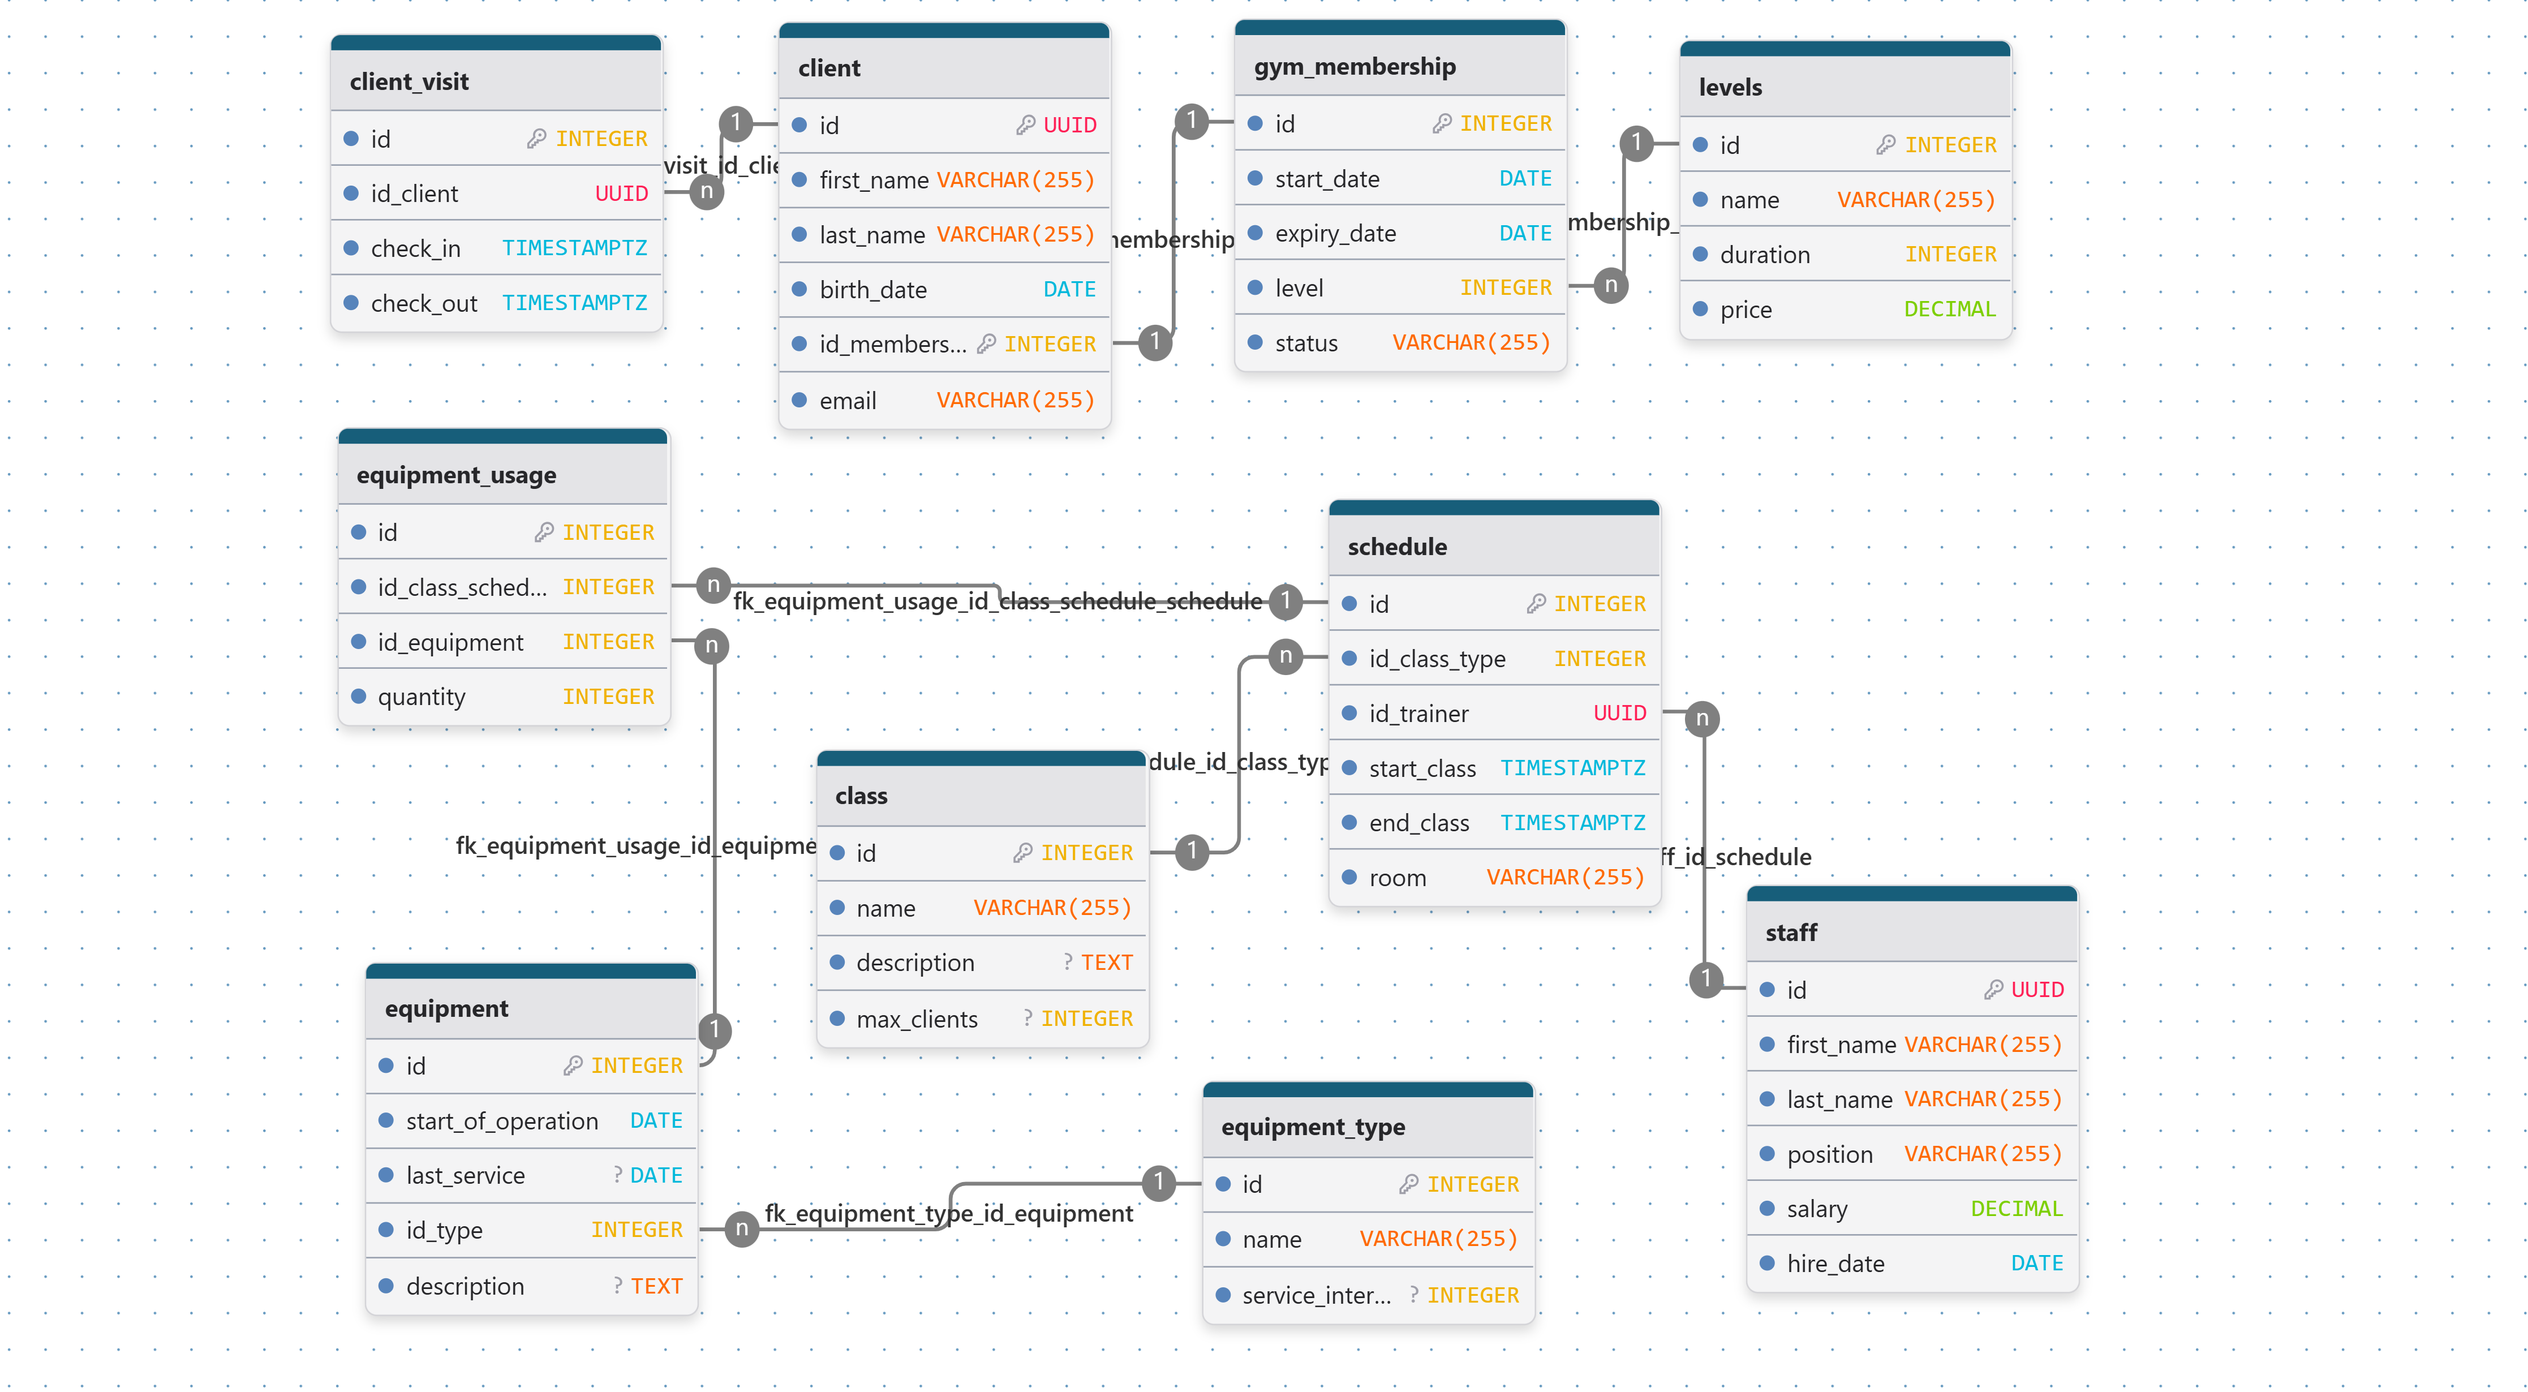
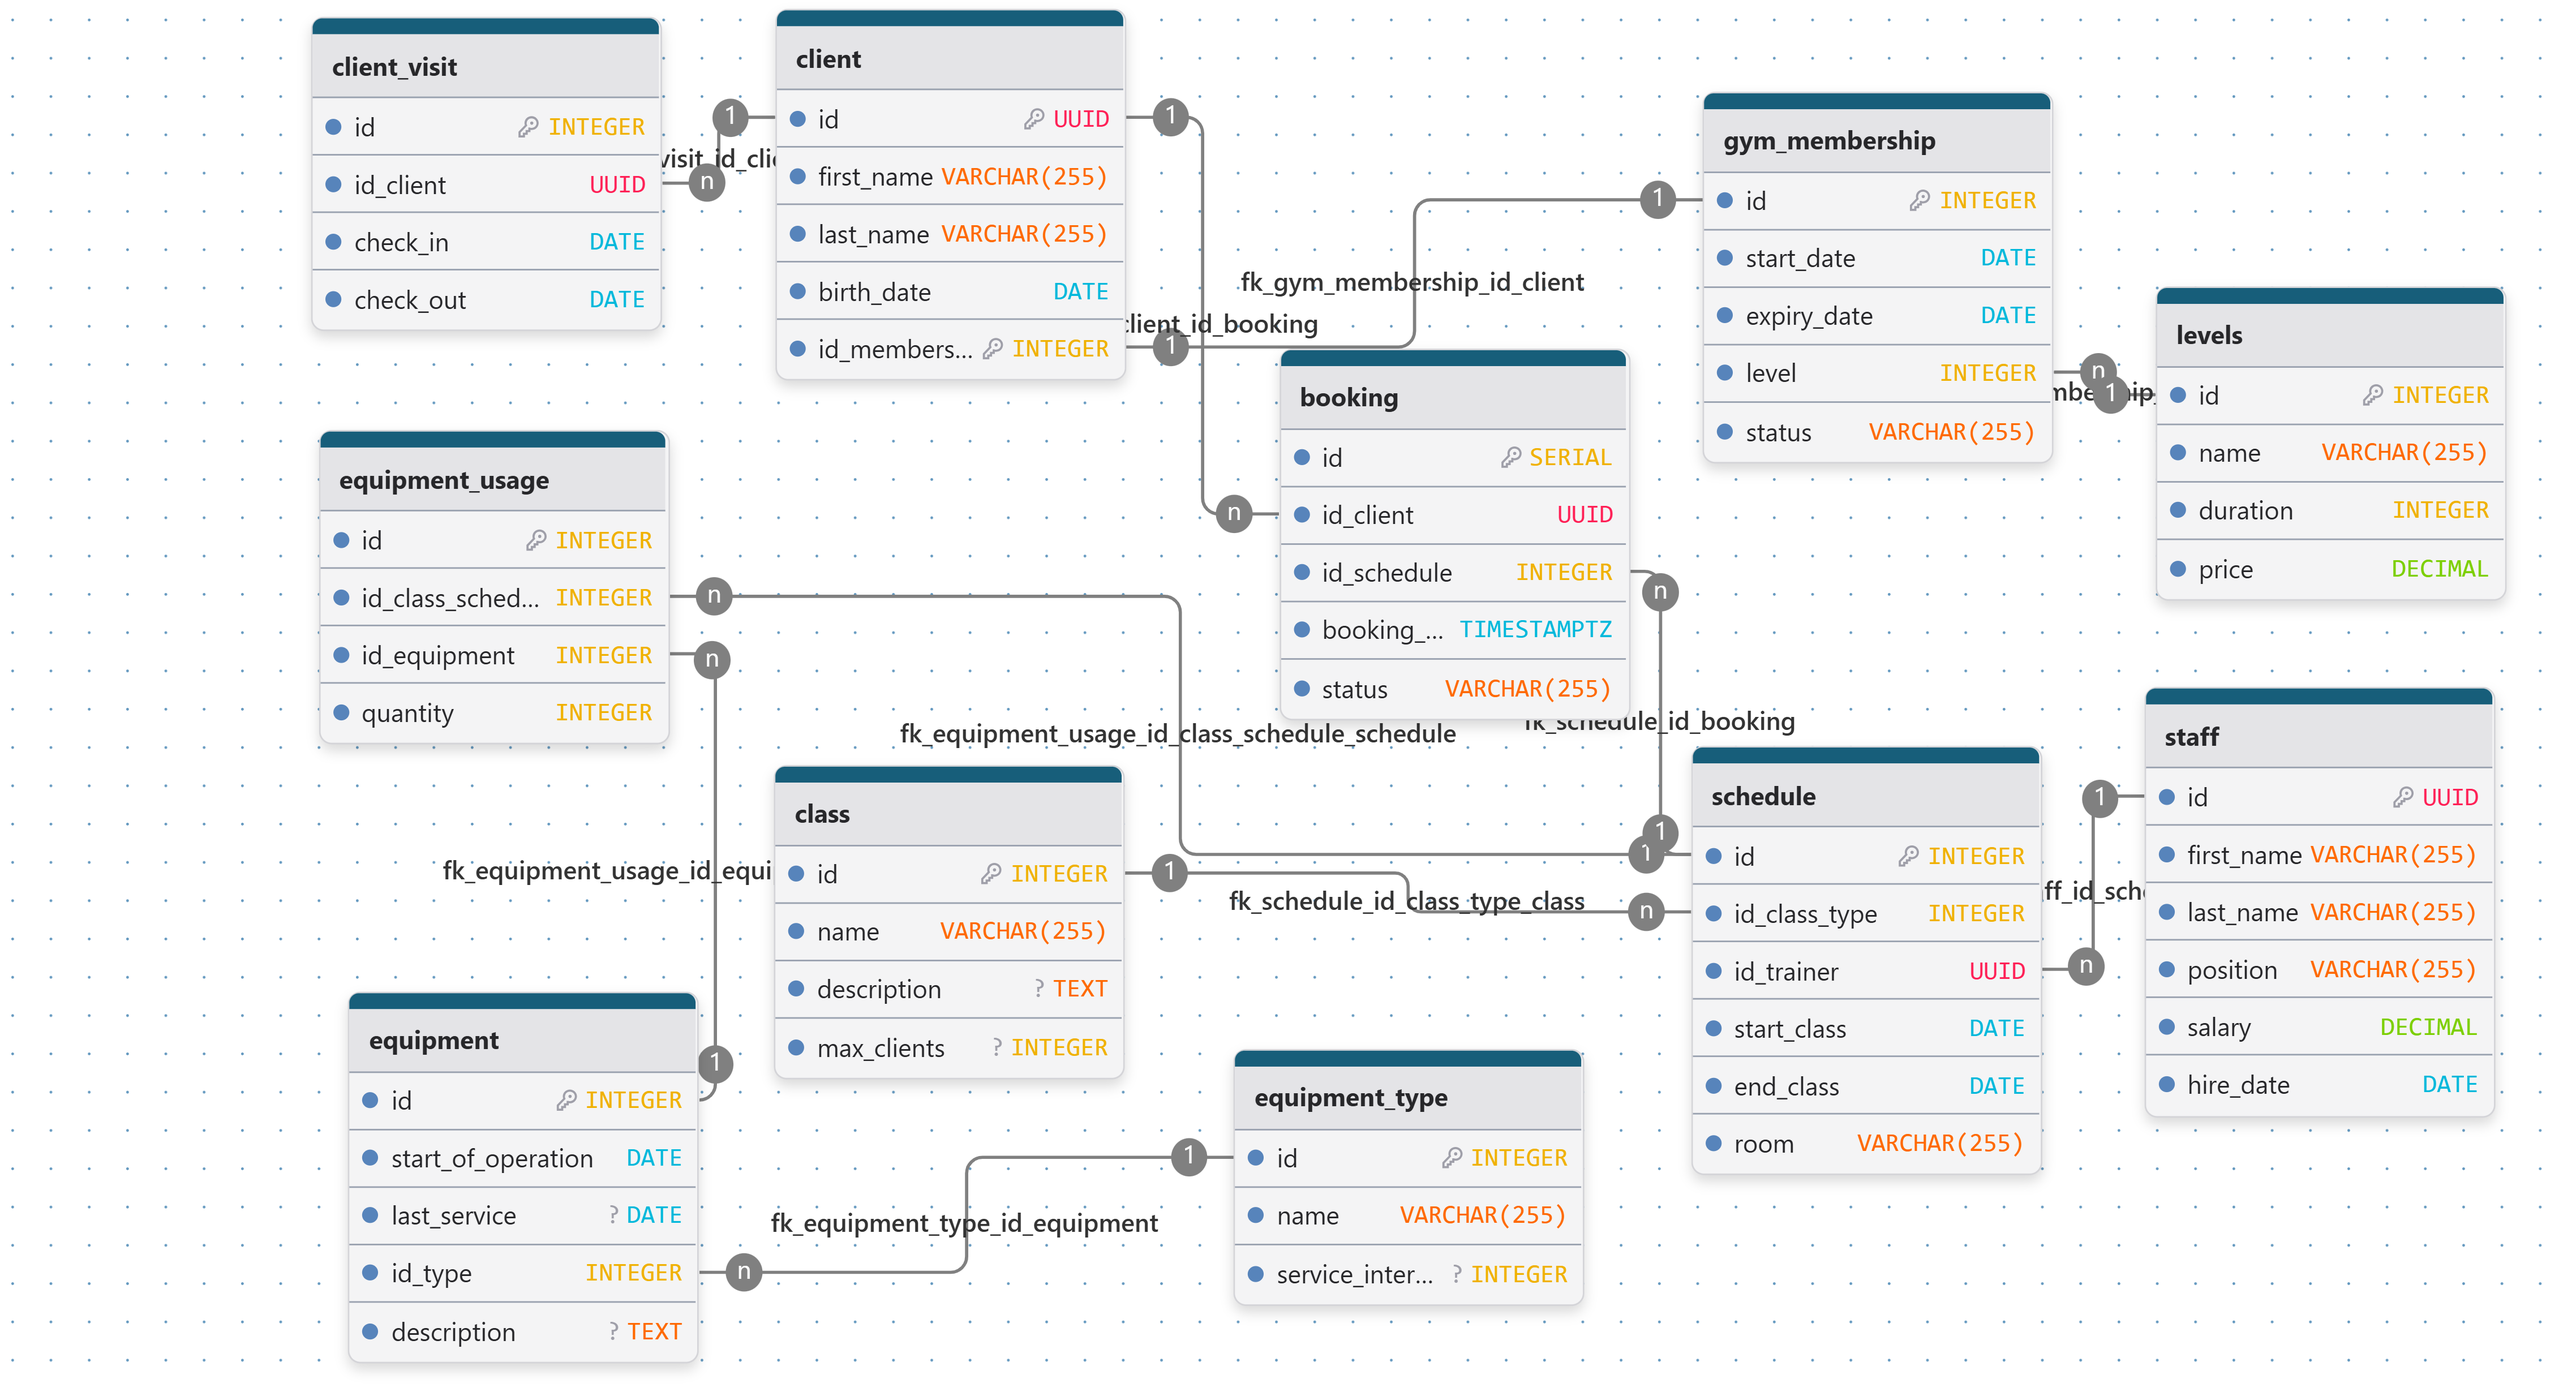
Добавлена таблица booking для записи клиентов на занятия

diff --git a/technical specification.md b/technical specification.md
@@ -17,7 +17,7 @@
 |id_membership|INTEGER|FOREIGN KEY -> gym_membership.id, NOT NULL|
 |email|VARCHAR(255)|UNIQUE, NOT NULL|
 
-### gym_membership - членство клуба (абонимент)
+### gym_membership - членство клуба (абонемент)
 |Название поля|Тип|Ограничения|
 |:-|:-:|:-|
 |id|INTEGER|PRIMARY KEY, AUTOINCREMENT|
@@ -26,7 +26,7 @@
 |level|INTEGER|FOREIGN KEY -> levels.id, NOT NULL|
 |status|VARCHAR(255)|NOT NULL, значения: active, expired,cancelled|
 
-### levels - уровень абонимента
+### levels - уровень абонемента
 |Название поля|Тип|Ограничения|
 |:-|:-:|:-|
 |id|INTEGER|PRIMARY KEY, AUTOINCREMENT|
@@ -93,6 +93,15 @@
 |id_class_schedule|INTEGER|FOREIGN KEY -> schedule.id, NOT NULL|
 |id_equipment|INTEGER|FOREIGN KEY -> equipment.id, NOT NULL|
 |quantity|INTEGER|>= 1|
+
+### booking - запись на тренировки
+|Название поля|Тип|Ограничения|
+|:-|:-:|:-|
+|id|SERIAL|PRIMARY KEY|
+|id_client|UUID|FOREIGN KEY -> client.id, NOT NULL|
+|id_schedule|INTEGER|FOREIGN KEY -> schedule.id, NOT NULL|
+|booking_date|TIMESTAMPZ|NOT NULL, DEFAULT NOW()|
+|status|VARCHAR(255)|NOT NULL, значения: confirmed, cancelled, visited, no_show|
 ## Общие ограничения целостности
 - *Клиент должен иметь активную подписку для посещения*
 
@@ -114,9 +123,9 @@
 
     Если last_service + service_interval < CURRENT_DATE — считать оборудование требующим обслуживания
 
-- *Уникальность email*
+- *Клиент не может записаться на занятие дважды*
 
-- *Расписание не может быть без тренера и типа класса*
+- *Если занятие уберут из расписания или уволят тренерра, записи о занятии должны удалиться*
 # Пользовательские роли
 - *Клиент*
 
